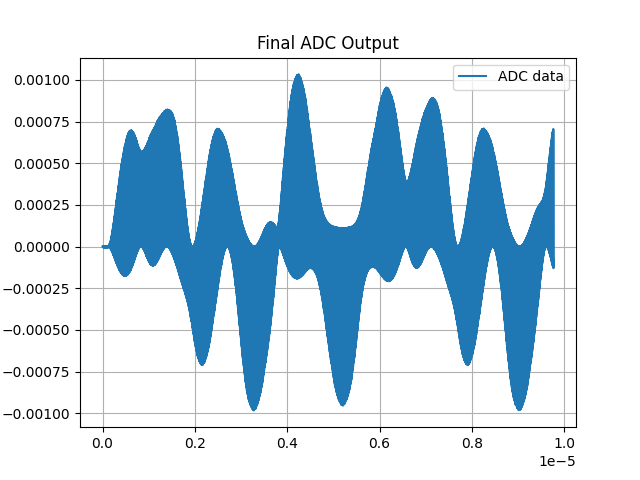
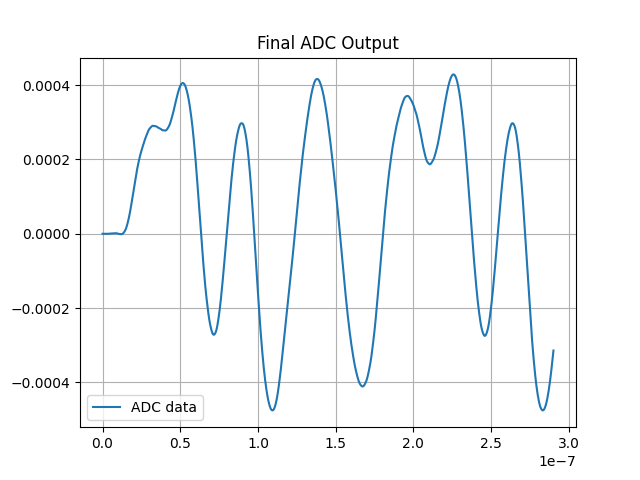
Just

diff --git a/QPSK_sim.py b/QPSK_sim.py
@@ -179,7 +179,6 @@ def rrc_filter(alpha, span, sps):
 
 
 
-
 #FPGA Calculations
 
 sps = 3 # Samples per Symbol
@@ -197,6 +196,12 @@ print('Occupaid Band width: ',BW* 8.4)
 Vi = 20
 
 h = rrc_filter(0,6,3)
+
+
+# === FIR Low-pass Filter Design (Anti-Imaging) ===
+cutoff = Rs / 2.5  # 3.072 MHz cutoff
+num_taps = 121
+lpf = firwin(num_taps, cutoff / ((Rs*30) / 2), window='hamming')
 
 plt.cla()
 plt.plot(h)
@@ -297,18 +302,13 @@ def Modulate (Data):
     Sampling_rate = Rs * Interpolation
     print('Sampling Rate: ',Sampling_rate)
 
-    # === FIR Low-pass Filter Design (Anti-Imaging) ===
-    cutoff = Rs / 2.5  # 3.072 MHz cutoff
-    num_taps = 121
-    lpf = firwin(num_taps, cutoff / (Sampling_rate / 2), window='hamming')
-
-
-
 
     ip_I = upfirdn([1],up_I,up = Interpolation)
     ip_Q = upfirdn([1],up_Q,up = Interpolation)
 
     Tend = Vi * 3 *Interpolation
+
+    print(len(up_I),len(ip_I))
 
     '''plt.plot(ip_I[:Tend],label = 'I data')
     plt.plot(ip_Q[:Tend],label = 'Q data')
@@ -318,6 +318,8 @@ def Modulate (Data):
     plt.show()'''
 
     # === Apply Filter ===
+    global lpf
+
     DAC_I = lfilter(lpf, 1.0, ip_I)
     DAC_Q = lfilter(lpf, 1.0, ip_Q)
 
@@ -403,19 +405,31 @@ def Demodulate (ADC_IN):
     plt.cla()
     plt.plot(tfc[:60546],Sig_I[:60546],label = 'ADC data')
     plt.legend()
-    plt.title('Final ADC Output')
+    plt.title('ADC IQ sepration')
     plt.grid()
     plt.show(block = False)
 
     input()
+    
+
+
+
+    ADC_dn_I = upfirdn([1],Sig_I,down = 33.63715277777778)
+    ADC_dn_Q = upfirdn([1],Sig_Q, down = 33.63715277777778)
+
+
+    ADC_dn_I = lfilter(lpf, 1.0, ADC_dn_I)
+    ADC_dn_Q = lfilter(lpf, 1.0, ADC_dn_Q)
+
+
+    plt.cla()
+    plt.plot(tfc[:1800],ADC_dn_I[:1800],label = 'ADC data')
+    plt.legend()
+    plt.title('Final ADC Output')
+    plt.grid()
+    plt.show(block = False)
+    input()
     plt.savefig('ADC_OUT')
-
-
-
-
-
-
-
 
 ADC_IN =[]
 
@@ -424,7 +438,7 @@ for i in FIFO:
     TX = Modulate(i)
     print(TX[:10])
     Noise = np.random.randint(0,10,size= (len(TX)))
-    Noise = Noise * 1e-10
+    Noise = Noise * (TX.max() / 100)
     TX = TX + Noise
     plt.cla()
     plt.plot(TX[:60546],label = 'TX')
